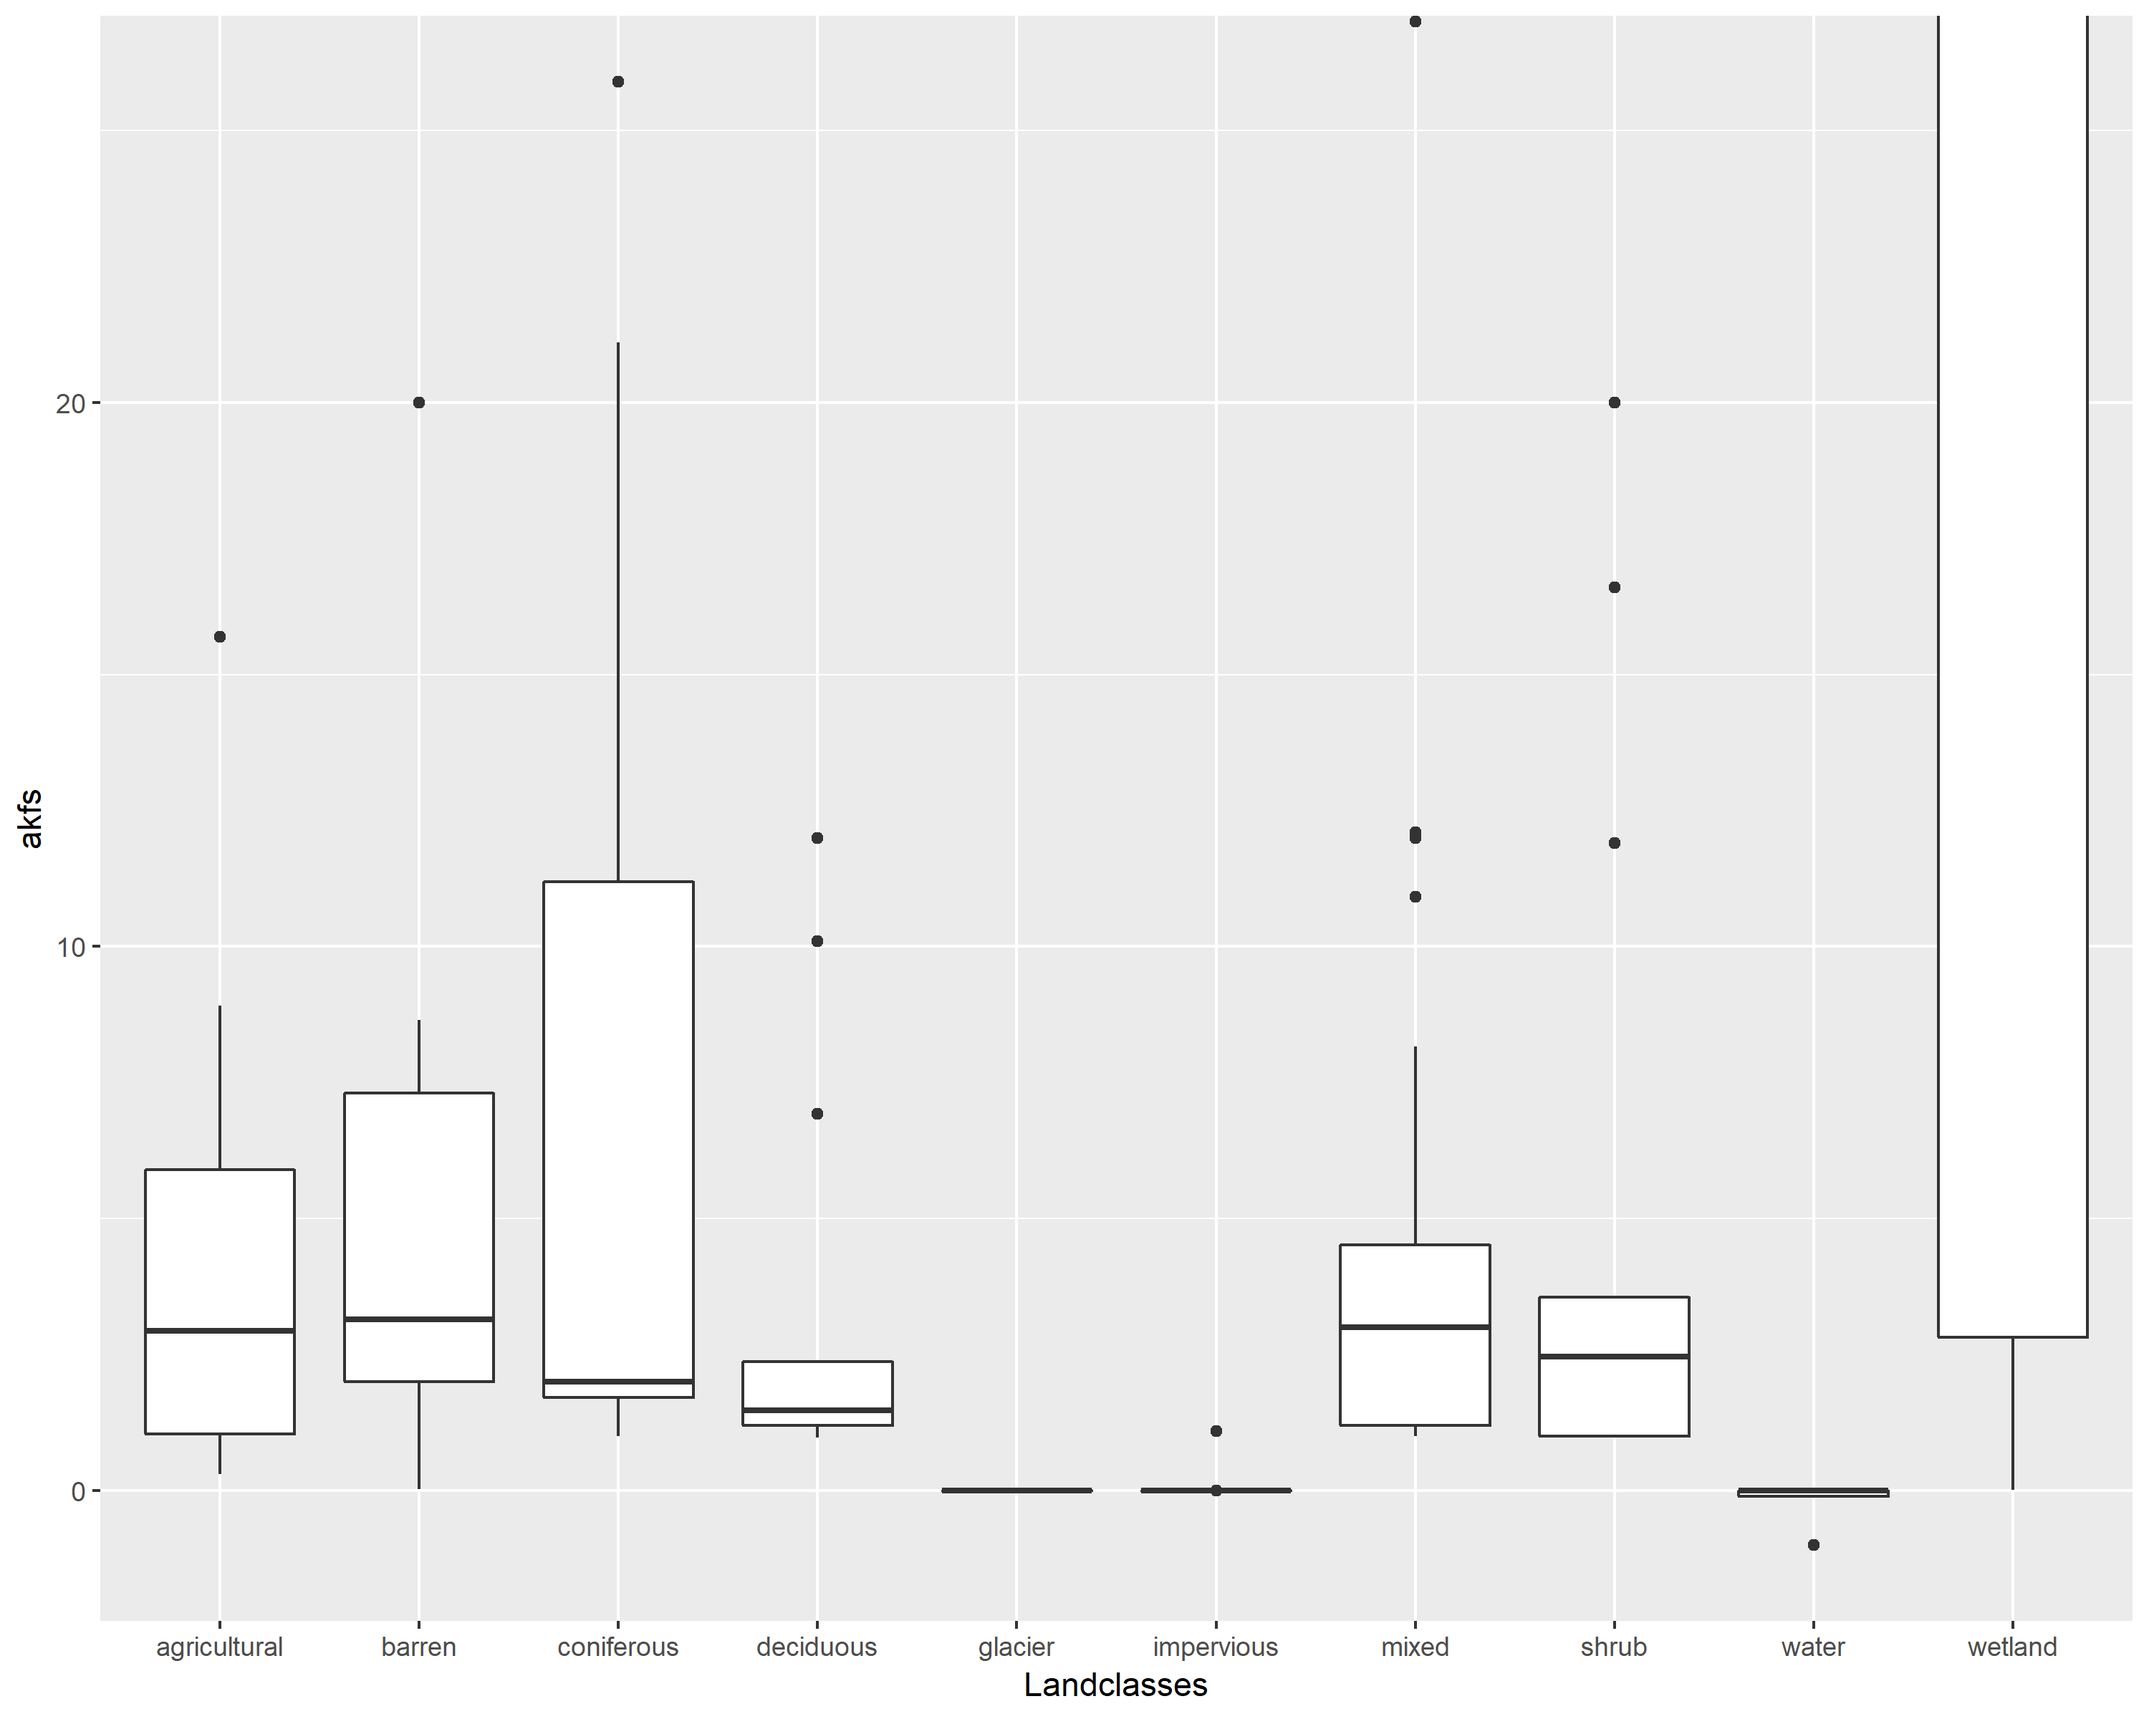
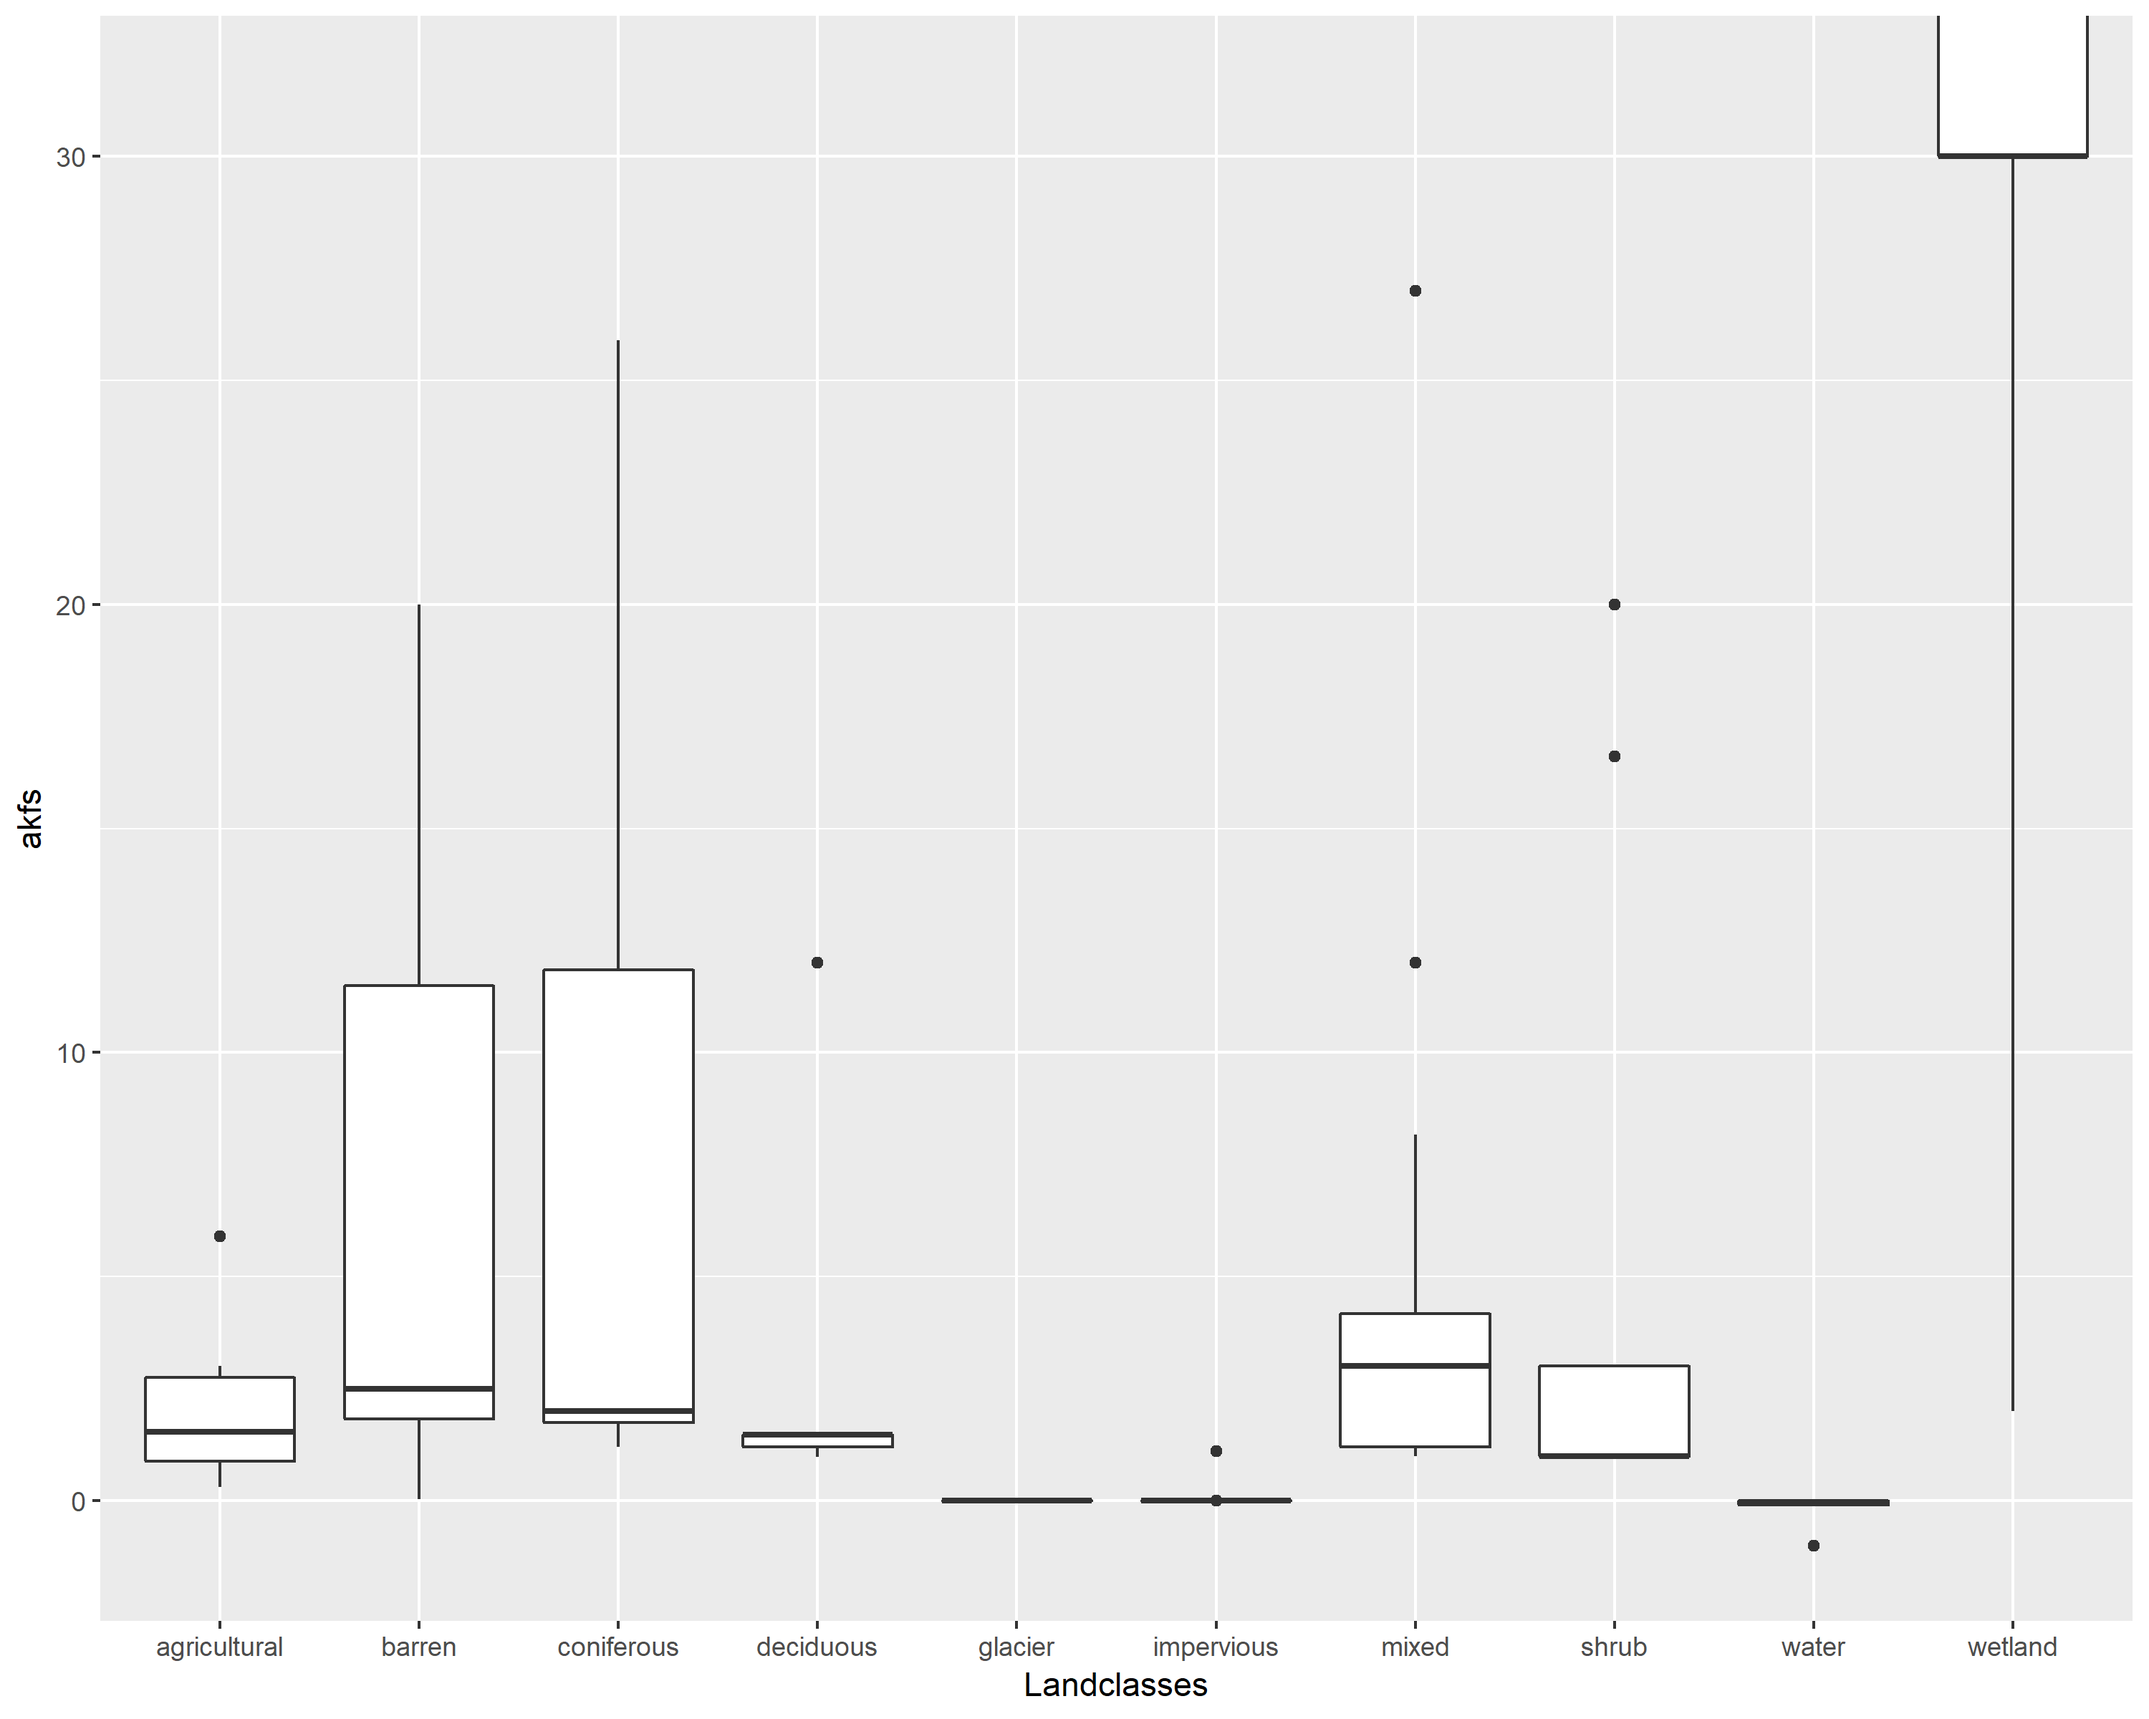
made Nick's changes

diff --git a/README.md b/README.md
@@ -6,7 +6,7 @@ August 9, 2018
 Description
 ===========
 
-This is an analysis to evaluate the limits of the parameters used in WATFLOOD. The code and parameter sets are available here. If you would like to add your own parameter set to this analysis, please contact <jbomhof@lwcb.ca>.
+This is an analysis to evaluate the limits of the parameters used in WATFLOOD. This analysis is available on a pdf or at <https://github.com/jimmybom/WATFLOOD_Parameters> where you can find the most up-to-date code and parameter sets. If you would like to add your own parameter set to this analysis, please contact <jbomhof@lwcb.ca>.
 
 The analysis is meant to be used as a starting point for model calibration. I have used these data to set parameter limits using the [Ostrich Calibration Software](http://www.eng.buffalo.edu/~lsmatott/Ostrich/OstrichMain.html). The analysis ingests the available parameter sets and collates them to a single data set. Percentiles are calculated for each parameter to give the user a range and median. Boxplots are generated for each landclass parameter where each column differentiates the different landclasses (e.g. forested, shrub, wetland, etc). Boxplots are also generated for River classes but are instead differentiated by basin because there is no common structure as to how river classes are spatially defined. All of the output is stored in the [Output folder](https://github.com/jimmybom/WATFLOOD_Parameters/tree/master/Output), and also shown below.
 
@@ -28,47 +28,45 @@ Output
 Summary Table
 -------------
 
-|    X| Parameter    |        min|          max|       fifth|  ninetyfifth|    median|
-|----:|:-------------|----------:|------------:|-----------:|------------:|---------:|
-|    1| a5           |   9.85e-01|  9.85000e-01|   0.9850000|     0.985000|   0.98500|
-|    2| ak           |  -1.00e+00|  4.00000e+02|   0.0000000|    71.307190|   8.00000|
-|    3| ak2          |   0.00e+00|  9.60000e-01|   0.0000000|     0.476000|   0.06600|
-|    4| ak2fs        |  -4.32e+08|  9.60000e-01|   0.0000000|     0.492000|   0.03800|
-|    5| akfs         |  -1.00e+00|  4.00000e+02|   0.0000000|    87.601600|   2.00000|
-|    6| alb          |   0.00e+00|  1.80000e-01|   0.1100000|     0.180000|   0.11000|
-|    7| base         |  -9.90e+01|  1.12000e+01|  -3.5140000|     2.730000|  -1.00000|
-|    8| ds           |   0.00e+00|  1.20000e+10|   0.0000000|    20.000000|   1.20000|
-|    9| dsfs         |   0.00e+00|  2.20000e+10|   0.0000000|    28.500000|   1.70000|
-|   10| fcap         |   1.50e-01|  1.00000e+00|   0.1500000|     0.300000|   0.15000|
-|   11| ffcap        |   8.00e-02|  1.00000e+00|   0.1000000|     0.500000|   0.10000|
-|   12| flint        |   0.00e+00|  1.00000e+00|   1.0000000|     1.000000|   1.00000|
-|   13| flz          |   0.00e+00|  7.50000e-01|   0.0000009|     0.004648|   0.00005|
-|   14| fm           |   4.20e-02|  8.14000e-01|   0.0580000|     0.470250|   0.11200|
-|   15| fmn          |   0.00e+00|  1.37000e-01|   0.0343500|     0.100000|   0.10000|
-|   16| fpet         |   0.00e+00|  8.25000e+00|   0.9020000|     3.000000|   2.00000|
-|   17| fratio       |   1.80e-01|  4.40000e+00|   0.6000000|     1.449000|   1.00000|
-|   18| ftall        |   0.00e+00|  1.30000e+00|   0.0000000|     1.000000|   0.70000|
-|   19| kcond        |   1.63e-02|  1.00000e+01|   0.1000000|     2.000000|   0.23200|
-|   20| mndr         |   1.00e+00|  1.50000e+00|   1.0000000|     1.125000|   1.00000|
-|   21| pwr          |   1.24e+00|  3.92000e+00|   1.5800000|     3.840000|   2.75000|
-|   22| r1           |   4.00e-03|  2.00000e+00|   0.0075000|     2.000000|   0.40000|
-|   23| r2           |   1.00e-03|  3.86202e+00|   0.0019310|     1.534000|   0.01750|
-|   24| r3           |   0.00e+00|  9.20000e+02|   0.0089800|    84.800000|  19.70000|
-|   25| r3fs         |   0.00e+00|  5.00000e+02|   0.1000000|    30.000000|  10.00000|
-|   26| r4           |   0.00e+00|  1.00000e+01|   1.0000000|    10.000000|  10.00000|
-|   27| rec          |   0.00e+00|  4.12000e+01|   0.0001000|     3.989500|   0.51350|
-|   28| retn         |   0.00e+00|  4.56000e+02|   0.0000000|   299.550000|  53.55000|
-|   29| rho          |   3.30e-01|  6.00000e-01|   0.3300000|     0.500000|   0.33300|
-|   30| spore        |   2.50e-01|  1.00000e+00|   0.3000000|     0.300000|   0.30000|
-|   31| sublim\_rate |   0.00e+00|  2.00000e+00|   0.0100000|     0.959000|   0.25000|
-|   32| theta        |   1.00e-01|  2.50000e+00|   0.1107000|     1.000000|   0.39200|
-|   33| tipm         |   1.00e-01|  2.00000e-01|   0.1000000|     0.200000|   0.10000|
-|   34| whcl         |   3.50e-02|  5.00000e-02|   0.0350000|     0.040000|   0.03500|
+|    X| Parameter    |       min|        max|    fifth|  ninetyfifth|   median|
+|----:|:-------------|---------:|----------:|--------:|------------:|--------:|
+|    1| a5           |    0.9850|  9.850e-01|   0.9850|       0.9850|   0.9850|
+|    2| ak           |   -1.0000|  4.000e+02|  -0.1000|      99.9400|   9.0000|
+|    3| ak2          |    0.0000|  9.600e-01|   0.0000|       0.3341|   0.0502|
+|    4| ak2fs        |    0.0000|  9.600e-01|   0.0000|       0.5155|   0.0240|
+|    5| akfs         |   -1.0000|  4.000e+02|  -0.1000|      99.9700|   2.0000|
+|    6| alb          |    0.0000|  1.800e-01|   0.1100|       0.1800|   0.1100|
+|    7| base         |  -99.0000|  1.120e+01|  -2.5000|       2.7300|  -0.9580|
+|    8| ds           |    0.0000|  1.200e+10|   0.0000|     122.1000|   1.0000|
+|    9| dsfs         |    0.0000|  2.200e+10|   0.0000|     220.0000|   2.0000|
+|   10| fcap         |    0.1500|  1.000e+00|   0.1500|       0.1500|   0.1500|
+|   11| ffcap        |    0.0800|  1.000e+00|   0.1000|       0.1000|   0.1000|
+|   12| flint        |    1.0000|  1.000e+00|   1.0000|       1.0000|   1.0000|
+|   13| flz          |    0.0000|  7.500e-01|   0.0000|       0.0046|   0.0000|
+|   14| fm           |    0.0510|  8.140e-01|   0.0600|       0.4212|   0.1120|
+|   15| fmn          |    0.0000|  1.370e-01|   0.0000|       0.1000|   0.1000|
+|   17| fratio       |    0.6000|  1.500e+00|   0.7050|       1.4650|   1.0000|
+|   19| kcond        |    0.0163|  1.000e+01|   0.1000|       2.0000|   0.2320|
+|   20| mndr         |    1.0000|  1.500e+00|   1.0000|       1.1250|   1.0000|
+|   21| pwr          |    1.2400|  3.920e+00|   1.5800|       3.8400|   2.7500|
+|   22| r1           |    0.0040|  2.000e+00|   0.0075|       2.0000|   0.4000|
+|   23| r2           |    0.0010|  3.862e+00|   0.0019|       1.5340|   0.0175|
+|   24| r3           |    0.0000|  9.200e+02|   0.0090|      84.8000|   8.9800|
+|   25| r3fs         |    0.0000|  5.000e+02|   0.0400|      30.0000|  10.0000|
+|   26| r4           |    0.0000|  1.000e+01|   0.3800|      10.0000|  10.0000|
+|   27| rec          |    0.0000|  4.120e+01|   0.0002|       3.9510|   0.5060|
+|   28| retn         |    0.0000|  4.560e+02|   0.0000|     313.5000|  50.0000|
+|   29| rho          |    0.3300|  6.000e-01|   0.3300|       0.3330|   0.3330|
+|   30| spore        |    0.2500|  1.000e+00|   0.3000|       0.3325|   0.3000|
+|   31| sublim\_rate |    0.0000|  4.000e-01|   0.0100|       0.4000|   0.1100|
+|   32| theta        |    0.1000|  2.500e+00|   0.1107|       1.0000|   0.3920|
+|   33| tipm         |    0.1000|  2.000e-01|   0.1000|       0.2000|   0.1000|
+|   34| whcl         |    0.0350|  5.000e-02|   0.0350|       0.0400|   0.0350|
 
 Plots
 -----
 
-![](./Output/maxmintable.csv)![](./Output/Param_Land_ak.png)![](./Output/Param_Land_ak2.png)![](./Output/Param_Land_ak2fs.png)![](./Output/Param_Land_akfs.png)![](./Output/Param_Land_alb.png)![](./Output/Param_Land_base.png)![](./Output/Param_Land_ds.png)![](./Output/Param_Land_dsfs.png)![](./Output/Param_Land_fcap.png)![](./Output/Param_Land_ffcap.png)![](./Output/Param_Land_flint.png)![](./Output/Param_Land_fm.png)![](./Output/Param_Land_fmn.png)![](./Output/Param_Land_fpet.png)![](./Output/Param_Land_fratio.png)![](./Output/Param_Land_ftall.png)![](./Output/Param_Land_r3.png)![](./Output/Param_Land_r3fs.png)![](./Output/Param_Land_r4.png)![](./Output/Param_Land_rec.png)![](./Output/Param_Land_retn.png)![](./Output/Param_Land_rho.png)![](./Output/Param_Land_spore.png)![](./Output/Param_Land_sublim_rate.png)![](./Output/Param_Land_tipm.png)![](./Output/Param_Land_whcl.png)![](./Output/Param_River_flz.png)![](./Output/Param_River_kcond.png)![](./Output/Param_River_mndr.png)![](./Output/Param_River_pwr.png)![](./Output/Param_River_r1.png)![](./Output/Param_River_r2.png)![](./Output/Param_River_theta.png)![](./Output/SummaryTable.csv)
+![](./Output/Param_Land_ak.png)![](./Output/Param_Land_ak2.png)![](./Output/Param_Land_ak2fs.png)![](./Output/Param_Land_akfs.png)![](./Output/Param_Land_alb.png)![](./Output/Param_Land_base.png)![](./Output/Param_Land_ds.png)![](./Output/Param_Land_dsfs.png)![](./Output/Param_Land_fcap.png)![](./Output/Param_Land_ffcap.png)![](./Output/Param_Land_flint.png)![](./Output/Param_Land_fm.png)![](./Output/Param_Land_fmn.png)![](./Output/Param_Land_fpet.png)![](./Output/Param_Land_fratio.png)![](./Output/Param_Land_ftall.png)![](./Output/Param_Land_r3.png)![](./Output/Param_Land_r3fs.png)![](./Output/Param_Land_r4.png)![](./Output/Param_Land_rec.png)![](./Output/Param_Land_retn.png)![](./Output/Param_Land_rho.png)![](./Output/Param_Land_spore.png)![](./Output/Param_Land_sublim_rate.png)![](./Output/Param_Land_tipm.png)![](./Output/Param_Land_whcl.png)![](./Output/Param_River_flz.png)![](./Output/Param_River_kcond.png)![](./Output/Param_River_mndr.png)![](./Output/Param_River_pwr.png)![](./Output/Param_River_r1.png)![](./Output/Param_River_r2.png)![](./Output/Param_River_theta.png)![](./Output/SummaryTable.csv)
 
 References
 ==========
@@ -108,6 +106,7 @@ library(stringr)
 library(reshape2)
 library(ggplot2)
 
+options("scipen"=100, "digits"=4)
 script.directory <- getwd()
 
 #define folders
@@ -260,10 +259,21 @@ median <-
             quantile,
             0.50,
             na.rm = T)
-maxmin_table <- cbind(mins, maxes[, 2], lower[, 2], upper[, 2], median[, 2])
+maxmin_table <- cbind(mins,
+                      maxes[, 2],
+                      lower[, 2], 
+                      upper[, 2], 
+                      median[, 2])
 names(maxmin_table) <-
   c("Parameter", "min", "max", "fifth", "ninetyfifth", "median")
-write.csv(maxmin_table, file.path(output.directory, "maxmintable.csv"))
+
+#round to 4 decimal places
+maxmin_table[,-1] <- round(maxmin_table[,-1],4)
+
+#remove Fpet and Ftall because they should use textbook values
+maxmin_table <- maxmin_table[!(maxmin_table$Parameter %in% c("fpet","ftall")),]
+
+write.csv(maxmin_table, file.path(output.directory, "SummaryTable.csv"))
 
 
 
